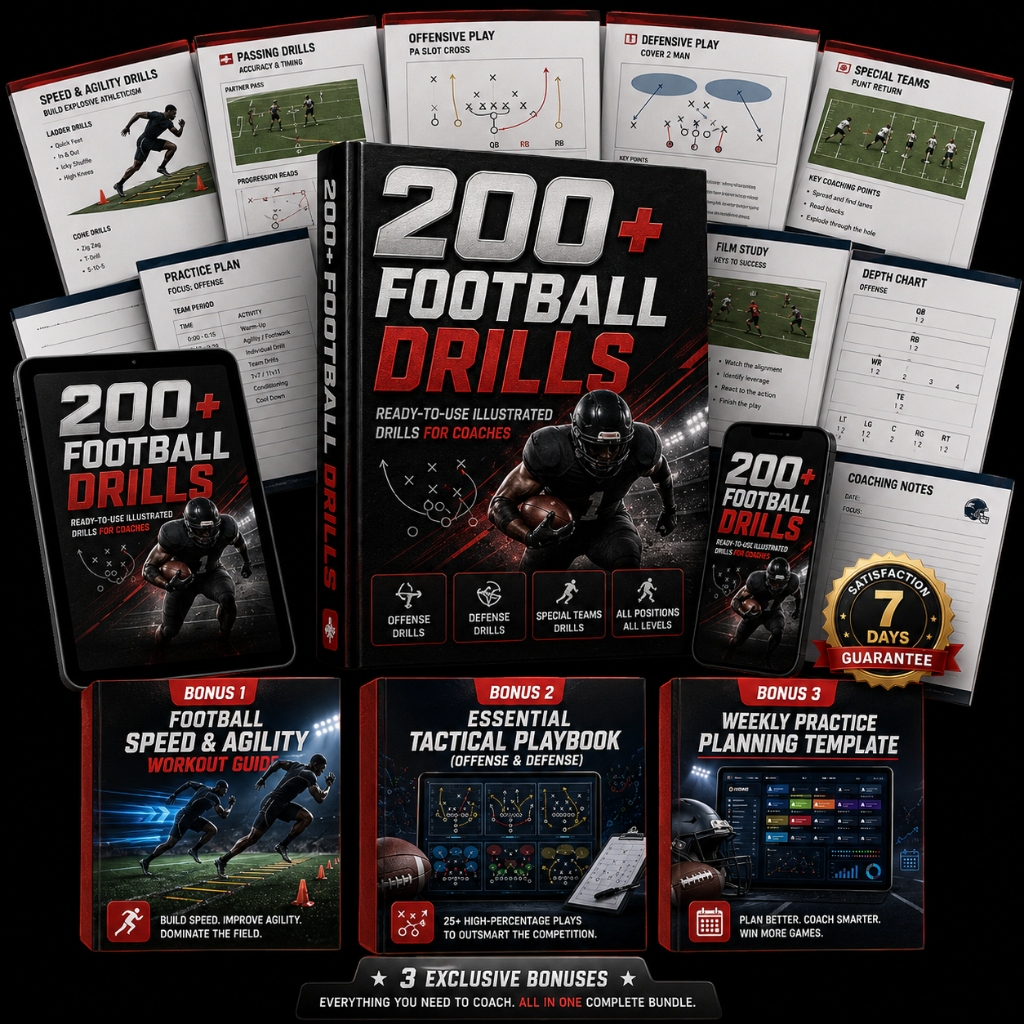
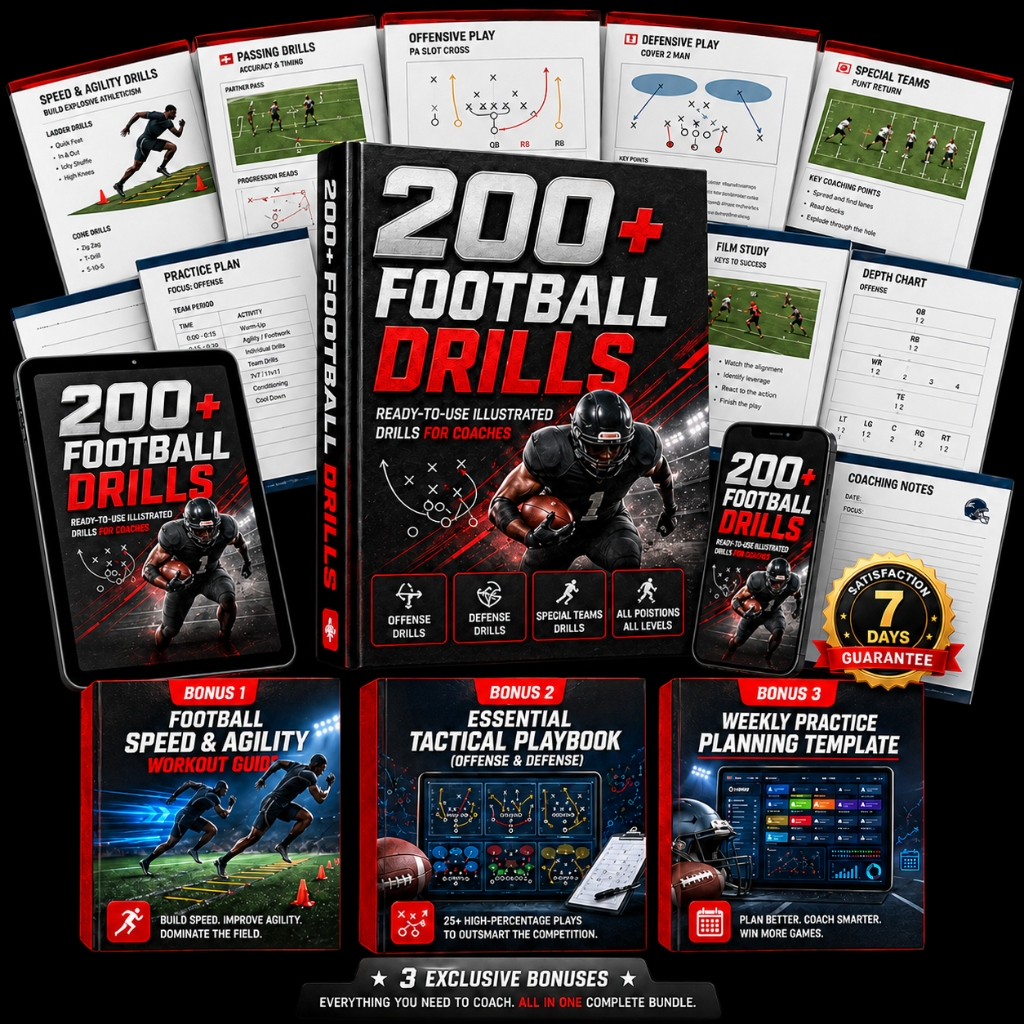
feat: update hero section with latest full bundle mockup image

diff --git a/index.html b/index.html
@@ -32,7 +32,7 @@
 
       <!-- Visual Product Mockup -->
       <div class="hero-media">
-        <img src="images/hero_mockup.png" alt="+200 Football Drills Complete Bundle" class="hero-img" loading="eager" />
+        <img src="images/hero_mockup.jpg" alt="+200 Football Drills Complete Bundle" class="hero-img" loading="eager" />
       </div>
 
       <!-- CTA Button Redirecting to Offer Section -->
